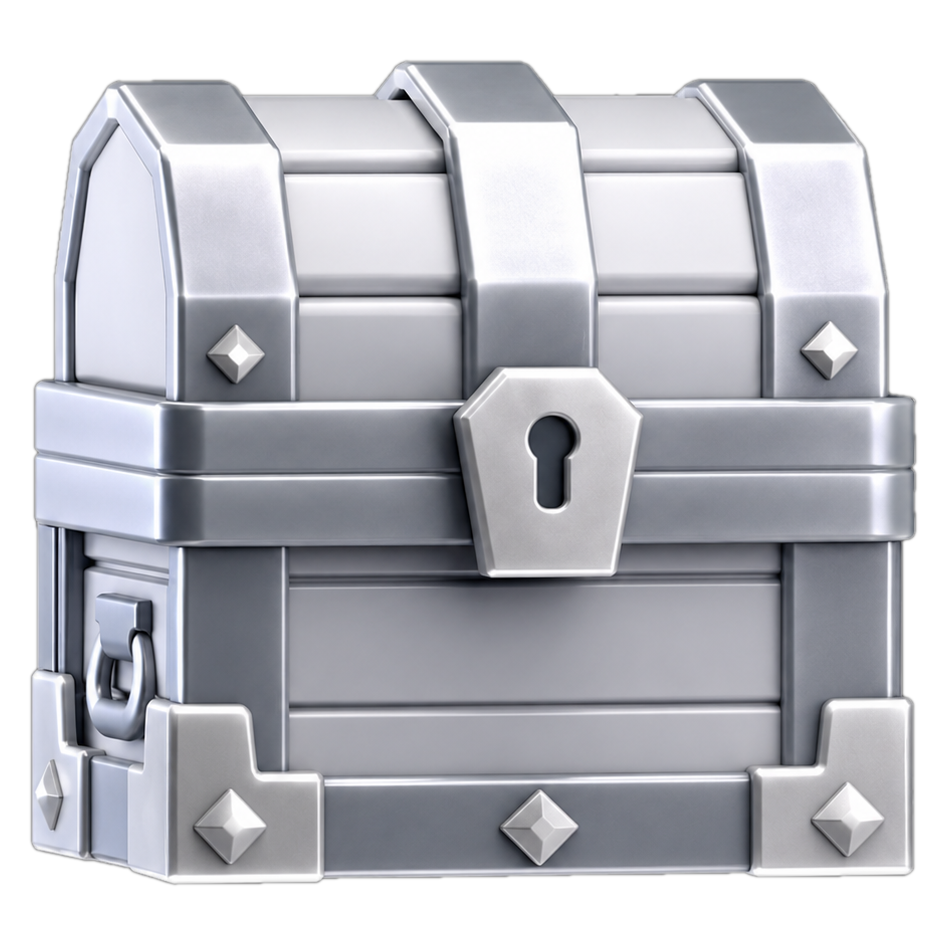
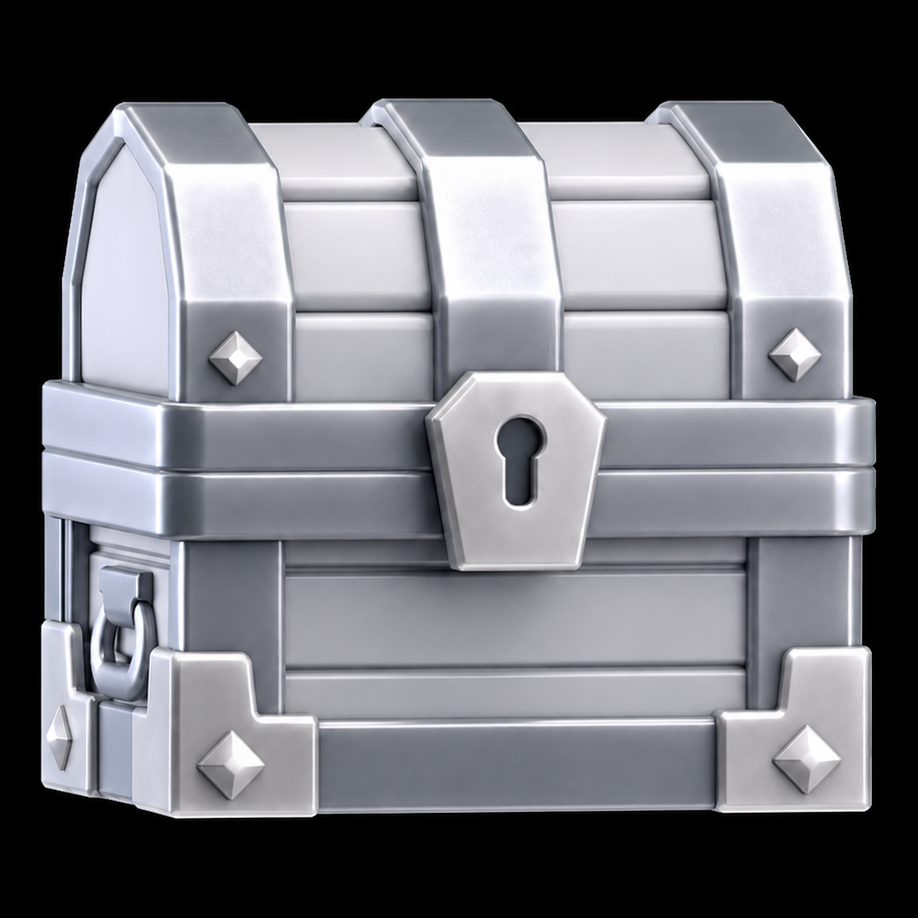
Battle pass: swap the silver chest for a new model, resized to match wood
The new silver PNG had much more padding around the chest than the other
four (57% height fill vs. wood's 79%), so dropping it in as-is would have
made it read visibly smaller than wood despite both being free-track
chests. Cropped it to its content bounding box and re-padded onto a
square canvas at the same fill ratio as wood, so both now use the same
CHEST_VISUAL_SCALE and render at identical size.

diff --git a/client/src/pages/battlepass.tsx b/client/src/pages/battlepass.tsx
@@ -34,15 +34,16 @@ const CHEST_IMAGES: Record<BattlePassChestTier, string> = {
 };
 
 // The 5 chest PNGs aren't cropped to the same padding around the chest itself -- measured
-// content-vs-canvas fill: wood 79%, silver 87%, gold 67%, purple 70%, crown 63% (all ~94%
-// wide, so height fill is what actually varies). Rendered at the same fixed box size, that
-// made wood/silver (free track) visibly bigger than gold/purple/crown (premium track), which
-// is what looked like "Free chests are bigger than Premium". Scaling each down to crown's
-// fill (the tightest-padded, so nothing needs to be scaled *up* and blurred) makes every
-// chest read as the same size regardless of which PNG it happens to be.
+// content-vs-canvas fill: wood 79%, silver 79% (re-cropped 2026-09-01 to match wood's own
+// padding when the silver PNG was swapped for a new model), gold 67%, purple 70%, crown 63%
+// (all ~94% wide, so height fill is what actually varies). Rendered at the same fixed box
+// size, that made wood/silver (free track) visibly bigger than gold/purple/crown (premium
+// track), which is what looked like "Free chests are bigger than Premium". Scaling each down
+// to crown's fill (the tightest-padded, so nothing needs to be scaled *up* and blurred) makes
+// every chest read as the same size regardless of which PNG it happens to be.
 const CHEST_VISUAL_SCALE: Record<BattlePassChestTier, number> = {
   wood: 0.795,
-  silver: 0.72,
+  silver: 0.795,
   gold: 0.94,
   purple: 0.9,
   crown: 1,
